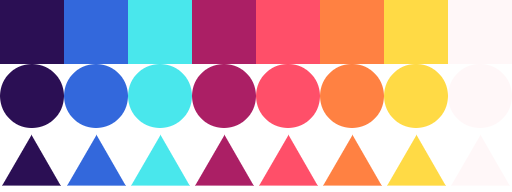
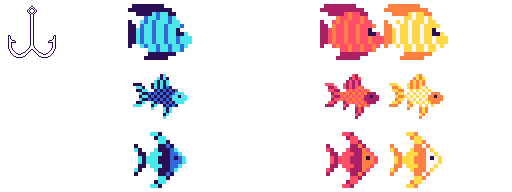
Adds fish

diff --git a/src/gameObjects/Board.js b/src/gameObjects/Board.js
@@ -4,12 +4,10 @@ export default class {
   constructor(scene) {
     this.scene = scene
     this.sprites = new Array(BOARD_SIZE * BOARD_SIZE).fill(1).map((n, i) => {
-      const x = (i % BOARD_SIZE) * TILE_SIZE + 20
-      const y = Math.floor(i / BOARD_SIZE) * TILE_SIZE + 500
-      const sprite = this.scene.add
-        .sprite(x, y, 'colors', this.getRandomType())
-        .setScale(1.5)
-        .setOrigin(0, 0)
+      const x = (i % BOARD_SIZE) * TILE_SIZE + 20 + TILE_SIZE / 2
+      const y = Math.floor(i / BOARD_SIZE) * TILE_SIZE + 500 + TILE_SIZE / 2
+      const sprite = this.scene.add.sprite(x, y, 'colors', this.getRandomType())
+      sprite.direction = i % 8 < 4 ? 1 : -1
       sprite.index = i
       return sprite
     })
@@ -17,9 +15,15 @@ export default class {
 
   selectSprites() {
     const selected = this.scene.hook.getSelectedIndexes()
-    this.sprites.forEach((sprite, spriteIndex) =>
-      sprite.setAlpha(selected.includes(spriteIndex) ? 1 : 0.5),
-    )
+    this.sprites.forEach((sprite, spriteIndex) => {
+      sprite.setAlpha(selected.includes(spriteIndex) ? 1 : 0.55)
+      sprite.setScale(
+        selected.includes(spriteIndex)
+          ? 1.75 * sprite.direction
+          : 1.5 * sprite.direction,
+        selected.includes(spriteIndex) ? 1.75 : 1.5,
+      )
+    })
   }
 
   fillBoard() {
@@ -78,7 +82,9 @@ export default class {
     this.scene.tweens.add({
       targets: [sprite],
       x: targetX,
-      duration: 100,
+      duration: 800,
+      delay: 5 * sprite.index,
+      ease: 'Cubic.easeOut',
       onComplete: () => (sprite.moving = false),
     })
   }

diff --git a/src/scenes/Game.js b/src/scenes/Game.js
@@ -38,7 +38,7 @@ export default class extends Phaser.Scene {
     if (selected.some((s) => s.frame.name === 1)) return
 
     this.canSubmit = false
-    this.time.addEvent({ delay: 100, callback: () => (this.canSubmit = true) })
+    this.time.addEvent({ delay: 300, callback: () => (this.canSubmit = true) })
 
     this.ui.setScore(this.getScore(selected))
     selected.forEach((s) => s.setFrame(1))

diff --git a/src/gameObjects/ui.js b/src/gameObjects/ui.js
@@ -14,8 +14,8 @@ export default class {
       .setScale(3)
   }
   setScore(score) {
-    this.score += score
-    this.scoreText.setText(this.score)
+    this.scene.score += score
+    this.scoreText.setText(this.scene.score)
   }
   getFood() {
     return this.foodSprite.frame.name
